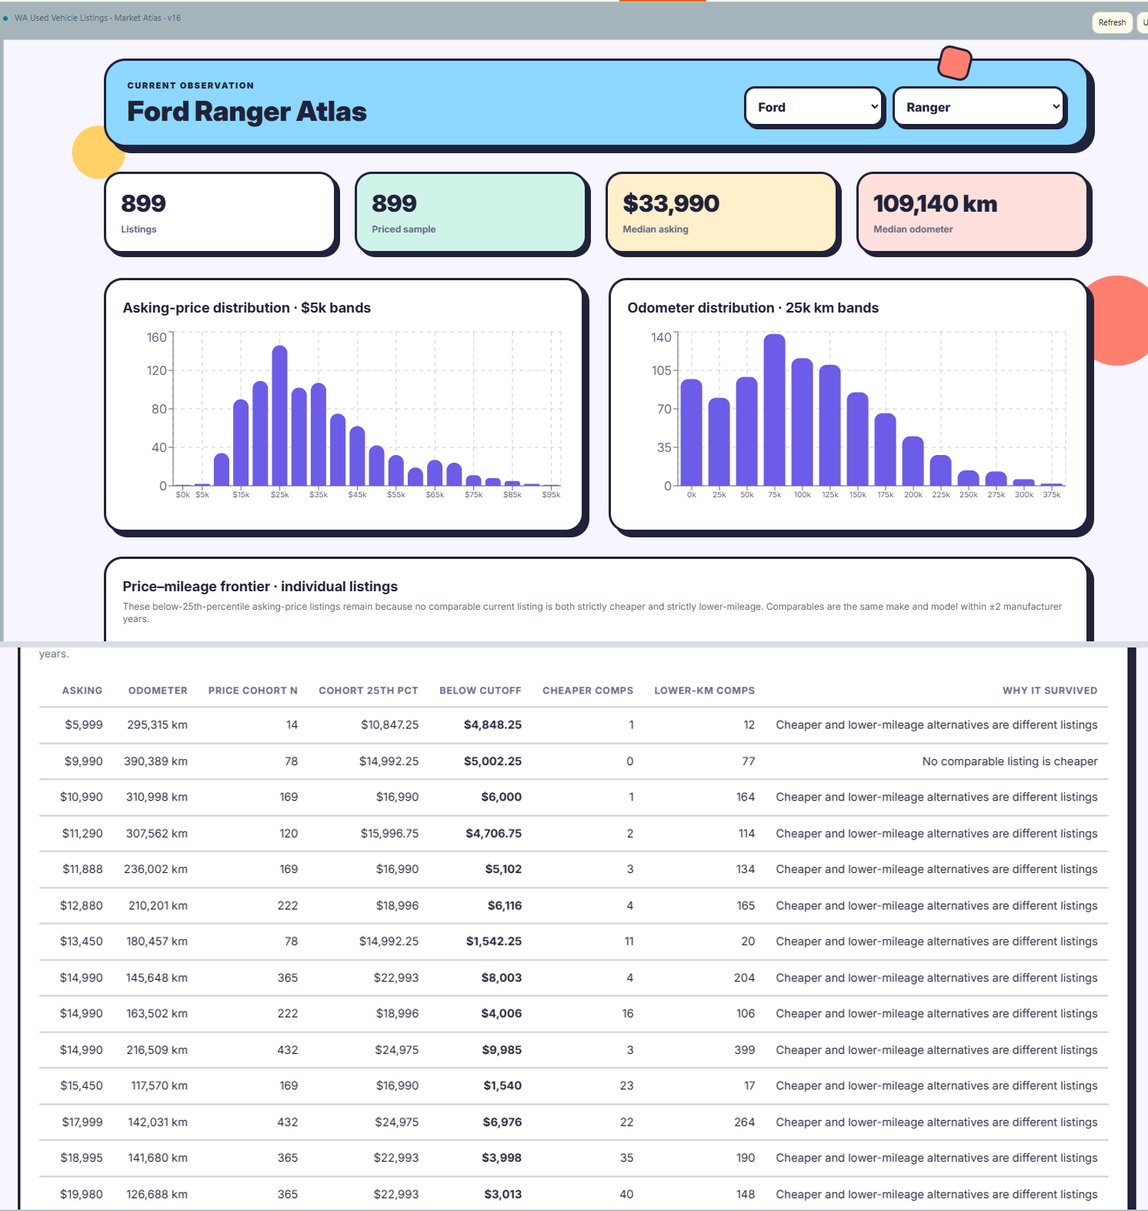
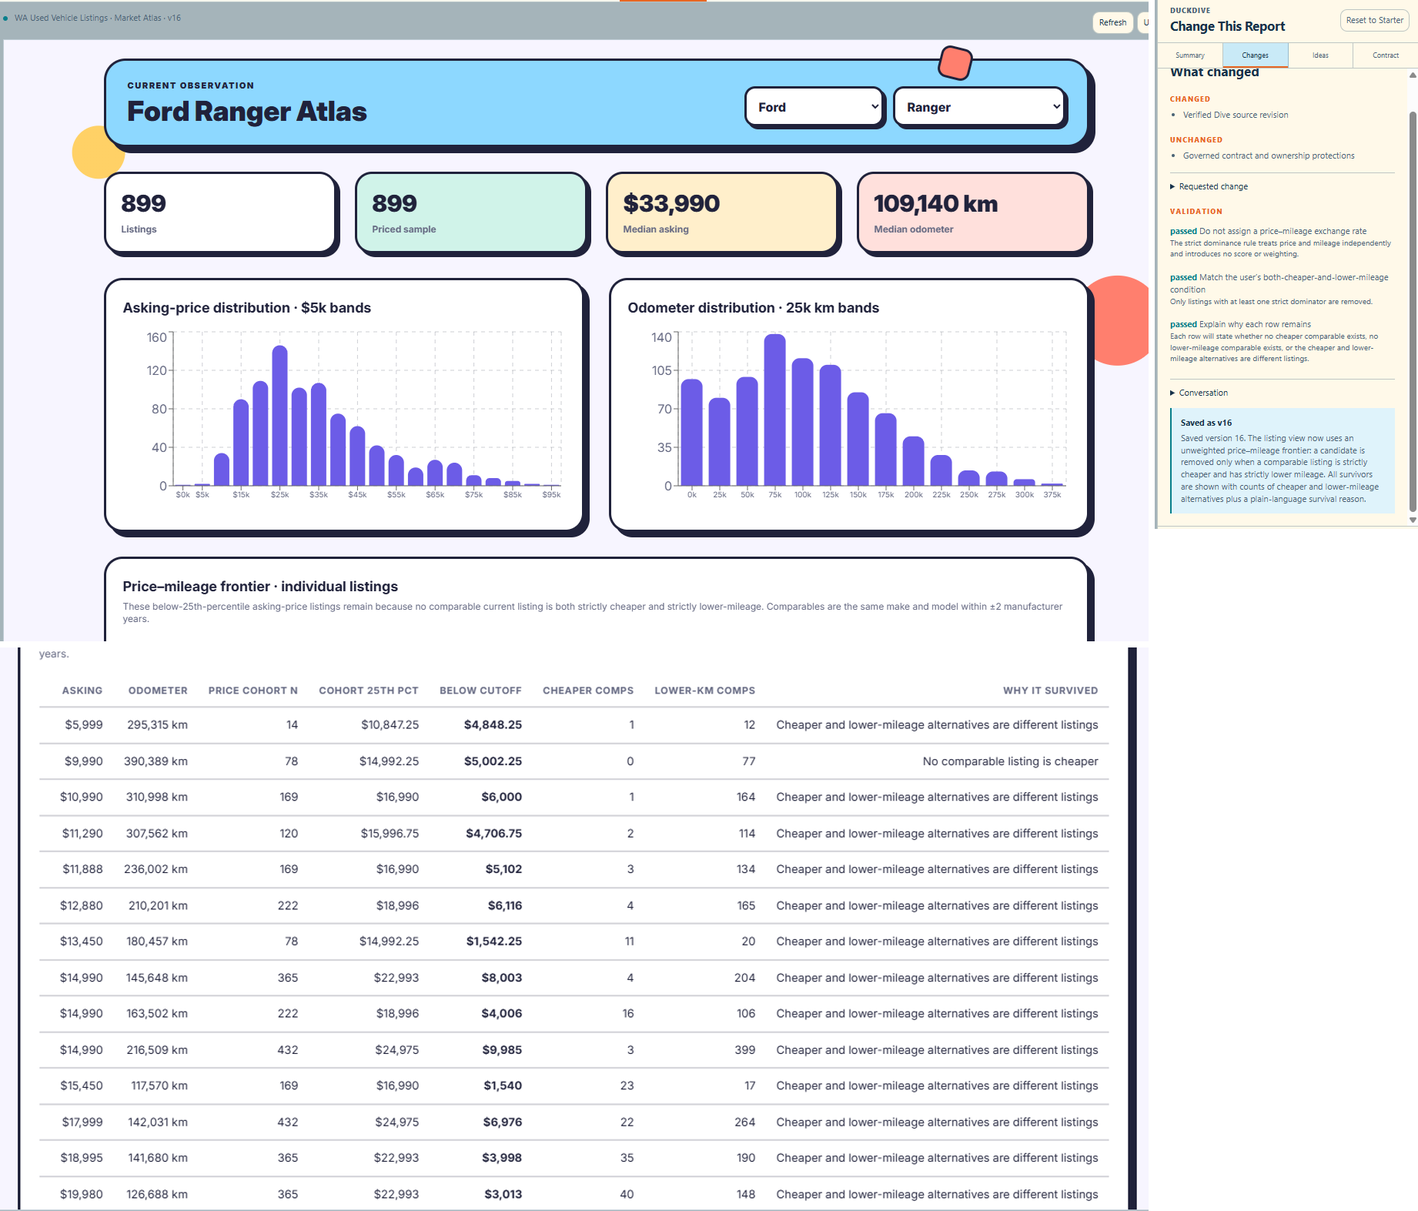
Publish Price Frontier case study

Changed region(s): [[0.0, 0.0, 1.0, 1.0], [0.0308, 0.0, 0.37, 0.2181]]

diff --git a/docs/case-studies/price-mileage-frontier.md b/docs/case-studies/price-mileage-frontier.md
@@ -1,0 +1,186 @@
+---
+meta:
+  contentType: Conceptual
+---
+
+# Trace a Ranger question to a market-wide frontier
+
+This case study explains how a conversation changed an ordinary vehicle report into a reusable price-mileage frontier. The result preserves price and odometer as separate measures, evaluates each listing within a governed peer group, and stops short of valuation or purchase advice.
+
+## Read the evidence boundary first
+
+This page describes a historical session observed on 11 August 2026. It does not describe current application, MotherDuck, or Embedded Dives state.
+
+| Evidence class | What this page uses |
+| --- | --- |
+| Observed artifacts | A supplied conversation transcript and review-safe derivatives of screenshots captured on 11 August 2026 |
+| Editorial composites | Assets 04, 05, 07, 08, and 09 combine observed screenshot fragments and identify themselves as composites |
+| Reference reconstruction | [Work package 5 specifies an offline reconstruction](../../REPOSITORY_REVIEW_PLAN.md#work-package-5-add-an-executable-reference-reconstruction); no analytical result has been reconstructed in this phase |
+| Unavailable evidence | The original version 16 Dive source, its complete prompt history, its generated query or report source, and live MotherDuck access |
+
+Every displayed market value on this page belongs to the 11 August observation. Version numbers and cohort parameters describe the observed report logic. No value from a later observation appears here.
+
+The [visual-evidence gallery](../assets/price-frontier/README.md), [asset manifest](../assets/price-frontier/manifest.json), and [Work package 3 evidence record](../review/WORK_PACKAGE_3_EVIDENCE.md) document the source hashes, redactions, crops, and composite boundaries.
+
+## Follow the analytical evolution
+
+The conversation progressively expressed a decision problem. Each accepted version changed the report while retaining its evidence limits.
+
+### 1. Start with a conventional report
+
+The initial report plots advertised asking price against source-reported odometer. It supports exploration, but it leaves the reader to interpret a heterogeneous market without a governed candidate rule.
+
+![Conventional used-vehicle scatterplot with make and model selectors and advertised asking price plotted against odometer](../assets/price-frontier/01-conventional-scatterplot.png)
+
+Observed screenshot from 11 August 2026. Asking price remains an advertised amount, not a transaction price or estimated value.
+
+### 2. Prove that conversation can change presentation
+
+The Corporate Memphis request is the low-cost proof of report mutation. Version 8 changes cards, charts, typography, controls, and decorative geometry while retaining the report’s measures and analytical scope.
+
+![Version 8 Market Atlas with Corporate Memphis cards, charts, decorative shapes, and the report summary panel](../assets/price-frontier/02-corporate-memphis-restyle.png)
+
+Observed screenshot from 11 August 2026. The presentation changes, but the current-market analysis remains intact.
+
+### 3. Scope the report without hard-coding the question
+
+The next request makes the report useful for a Ford Ranger investigation. Version 12 defaults to Ford and Ranger, exposes make and model as independent selectors, and applies both controls to key measures and distributions.
+
+![Version 12 Ford Ranger Atlas with independent Ford make and Ranger model selectors, cohort counts, and price and odometer distributions](../assets/price-frontier/03-parameterized-ford-ranger.png)
+
+The visible version 12 panel records three validations:
+
+- Governed measure definitions remain unchanged
+- The report avoids valuation and market-total claims
+- The existing source and contract support make-and-model filtering
+
+The saved change also removes the redundant make chart. The report solves the immediate Ranger problem through parameters rather than a fixed Ford/Ranger query.
+
+### 4. Add a cohort-relative candidate rule
+
+The next question asks which asking prices are unusual within legitimate peer groups. Version 13 flags listings below their cohort’s 25th-percentile asking price.
+
+![Redacted version 13 low-asking-price table beside the saved change panel that confirms same-model year-window cohorts and a minimum cohort size](../assets/price-frontier/04-cohort-relative-price-filter.png)
+
+The visible version 13 panel defines a cohort as the same make and model within plus or minus two manufacturer years. It withholds the rule unless the cohort contains at least 10 current priced listings. The panel preserves the boundary between a relative asking-price signal and a valuation claim.
+
+The panel also records a warning that listing display fields need bounded read-only confirmation. Its saved state then identifies the fields included in the table.
+
+### 5. Add mileage context without estimating value
+
+The candidate list exposes a practical weakness: a low asking price can accompany high mileage. Version 14 adds odometer cohort size, cohort median odometer, and each listing’s distance from that median.
+
+![Redacted version 14 table that adds odometer cohort size, median odometer, and distance from the median beside its validation panel](../assets/price-frontier/05-mileage-aware-investigation.png)
+
+The visible version 14 panel records three safeguards:
+
+- It does not invent a valuation model
+- It preserves the governed price cohort
+- It requires at least 10 valid odometer readings for the odometer comparison
+
+The report can filter to listings at or below their cohort median odometer. It does not adjust price or estimate the monetary effect of mileage.
+
+### 6. Reduce the review set without recommending a purchase
+
+The next request asks for fewer listings to investigate. Version 15 defaults to five rows and lets the reader expand the set.
+
+![Redacted version 15 five-row first-pass shortlist with review-order controls, explicit limitations, and the saved change panel](../assets/price-frontier/06-first-pass-shortlist.png)
+
+The visible version 15 panel orders the review set by price gap below the cohort threshold, then lower odometer relative to the cohort median, then lower asking price. Its validation text calls the result data-only triage and rejects purchase-recommendation language.
+
+### 7. Replace ranking with strict two-dimensional dominance
+
+The final analytical request removes any implied conversion between dollars and kilometres:
+
+> Price and mileage both matter, but do not decide how much one is worth relative to the other. Remove a listing only when another comparable listing is both cheaper and lower-mileage.
+
+Version 16 implements a strict price-mileage frontier. It removes a candidate only when one comparable peer improves strictly on both observed measures.
+
+![Version 16 Ford Ranger Atlas with its validation panel above frontier rows showing local cohort measures, comparable counts, and plain-language survival reasons](../assets/price-frontier/07-price-mileage-frontier.png)
+
+The visible version 16 panel records three validations:
+
+- No price-mileage exchange rate, score, or weighting is introduced
+- Removal requires the same peer to be both strictly cheaper and strictly lower-mileage
+- Every survivor receives comparable counts and a plain-language survival reason
+
+The original version 16 Dive source is not preserved in this repository. The image is a labelled composite of observed screenshots, not a reconstructed report execution.
+
+### 8. Change controls to test generalization
+
+The make and model controls reveal that version 16 is not limited to Ford Ranger. The observed states include Hyundai Getz, Land Rover/All, All/All, and Land Rover Range Rover Evoque.
+
+![Four-state grid showing Hyundai Getz, Land Rover all models, all makes and models, and Land Rover Range Rover Evoque with different counts and distributions](../assets/price-frontier/08-generalization-grid.png)
+
+Each control state changes the title, population counts, measures, and distributions. The visible frontier description continues to define comparables at the same-make-and-model year-window grain.
+
+### 9. Expand the display to All/All
+
+The All/All state expands the display without turning unlike vehicles into peers. The observed 11 August frame shows 14,747 listings, a $28,988 median asking price, and an 88,138 km median odometer.
+
+The market-wide table is therefore interpreted as a union of local frontiers. A row survives within its own governed peer group before the report includes it in the broader display. A low-priced small car and a high-priced specialist vehicle can appear together without direct dominance comparison.
+
+### 10. Reveal the contract and refusal boundaries
+
+The final reveal is the contract rather than another visualization. It defines asking price, odometer, cohort position, grains, validation caveats, and unsupported interpretations.
+
+![Three contract panels defining asking price, odometer, cohort position, validation caveats, strict frontier rules, and prohibited valuation and sales claims](../assets/price-frontier/09-contract-and-refusal-boundaries.png)
+
+The observed contract states that advertised asking price is not a transaction price. It also states that source absence does not prove sale and that the frontier does not estimate vehicle value or suitability.
+
+## Keep three analytical scopes separate
+
+The frontier remains coherent because display, candidate, and dominance scopes answer different questions:
+
+| Scope | Question | Rule |
+| --- | --- | --- |
+| Display scope | Which results should the report show? | Selected make/model, make/All, or All/All |
+| Candidate rule | Which listings may enter the frontier test? | Asking price below the listing’s own cohort 25th percentile, with at least 10 current priced listings |
+| Dominance scope | Which peers may remove a candidate? | Same make and model within plus or minus two manufacturer years |
+
+Changing display scope does not broaden comparison scope. Land Rover/All can show results from several Land Rover models while each row remains evaluated against its own model and year window.
+
+## Apply strict dominance without a score
+
+A comparable peer removes a candidate only when both inequalities hold:
+
+```sql
+peer.asking_price < candidate.asking_price
+AND peer.odometer < candidate.odometer
+```
+
+The inequalities are strict. Equal asking price is not cheaper, and equal odometer is not lower-mileage, so equality on either measure cannot dominate a candidate.
+
+A surviving row has one of three explanations:
+
+- No comparable peer is cheaper
+- No comparable peer has lower mileage
+- Cheaper peers and lower-mileage peers exist, but they are different listings
+
+The third case matters because separate peers cannot be combined into an imaginary dominating vehicle. One actual comparable listing must improve on both measures.
+
+## Normalize through comparability semantics
+
+The All/All report spans a heterogeneous market, but it does not transform raw measures into a universal score. Local cohort rules perform the normalization through comparability semantics.
+
+The candidate rule asks whether an asking price is unusual within a governed local cohort. The dominance rule then compares price and odometer only among legitimate peers. The report unions the local survivors after those tests, so dollars remain dollars and kilometres remain kilometres.
+
+This method introduces no exchange rate between price and mileage. It also introduces no predicted value, trained model, or global ranking across unlike vehicles.
+
+## Reject claims that exceed the evidence
+
+The observed contract identifies nearby requests that the report cannot support:
+
+| Unsupported request | Why the evidence is insufficient | Supported alternative |
+| --- | --- | --- |
+| Estimate fair value | Advertised asking prices are not transactions, and the report has no valuation model | Compare observed asking prices within governed cohorts |
+| Tell the reader which vehicle to buy | The source does not establish condition, suitability, finance, accident history, or mechanical quality | Present transparent candidates and survival reasons for human investigation |
+| Identify vehicles that sold | A missing source listing does not establish a sale or transaction outcome | Describe a listing as no longer observed when the evidence supports that state |
+
+These are observed contract boundaries, not proof that semantic classification is deterministic. The agent still interprets requests through a model-mediated step. [Work package 6](../../REPOSITORY_REVIEW_PLAN.md#work-package-6-document-and-harden-the-bounded-agent-claim) will test the enforcement path separately.
+
+## State what the case study establishes
+
+The observed session shows a report evolving from presentation changes into governed analytical decision support. A concrete Ranger question produced a parameterized procedure that remained coherent across broader display states.
+
+The case study does not reproduce the original version 16 source or verify a live deployment. Work package 5 will add a credential-free reference reconstruction so reviewers can test the documented frontier semantics against synthetic cases.

diff --git a/docs/review/WORK_PACKAGE_4_EVIDENCE.md b/docs/review/WORK_PACKAGE_4_EVIDENCE.md
@@ -1,0 +1,64 @@
+# Work package 4 case-study record
+
+This record closes Work package 4 on 19 August 2026. The Price Frontier investigation is now the repository’s primary conceptual case study and remains independent of live MotherDuck access.
+
+## Published case study
+
+[`Trace a Ranger question to a market-wide frontier`](../case-studies/price-mileage-frontier.md) follows the required sequence:
+
+1. Conventional price-and-odometer report
+2. Corporate Memphis presentation change
+3. Version 12 make-and-model parameters
+4. Version 13 cohort-relative candidate rule
+5. Version 14 odometer context without value estimation
+6. Version 15 bounded first-pass triage
+7. Version 16 strict price-mileage frontier
+8. Control changes across vehicle populations
+9. All/All as a market-wide union of local frontiers
+10. Contract definitions, caveats, and refusal boundaries
+
+The root README links the case study as the primary reviewer artifact.
+
+## Evidence correction
+
+The Phase 4 audit found that asset 07 did not include the observed version 16 change panel. The corrected derivative now combines three observed frames: the report, the validation panel, and row details whose crop starts at asking price.
+
+The revised panel exposes the saved version and three checks: no price-mileage exchange rate, strict both-cheaper-and-lower-mileage removal, and a reason for every survivor. The asset manifest records the additional source hash and updated derivative hash. The published set remains nine files, and all derivatives remain free of ancillary Portable Network Graphics metadata.
+
+## Numerical and semantic audit
+
+The case study labels every screenshot as an 11 August 2026 artifact. Its only explicit market-wide values are the observed All/All count, median asking price, and median odometer from that date. It omits the later-observation listing count.
+
+The case study distinguishes:
+
+- Display scope: selected make/model, make/All, or All/All
+- Candidate rule: below the listing’s own cohort 25th-percentile asking price, with at least 10 current priced listings
+- Dominance scope: same make and model within plus or minus two manufacturer years
+
+It uses strict inequalities for both asking price and odometer. Equal price or equal odometer cannot dominate. A survivor has no cheaper peer, no lower-mileage peer, or separate cheaper and lower-mileage peers.
+
+The case study introduces no score, exchange rate, predicted value, transaction claim, or purchase advice. It identifies fair-value estimation, purchase selection, and sale inference as unsupported requests.
+
+## Artifact boundaries
+
+The case study states four evidence classes:
+
+- Observed screenshots and conversation transcript
+- Editorial composites of observed screenshot fragments
+- A reference reconstruction specified for Work package 5 but not yet implemented
+- Unavailable original version 16 source, complete prompt history, generated query or report source, and live MotherDuck access
+
+No analytical result is presented as reconstructed in this phase.
+
+## Validation results
+
+| Check | Result | Evidence |
+| --- | --- | --- |
+| `corepack pnpm review:assets` | Pass | Nine derivatives, 51 unique source hashes, and no PNG metadata |
+| `corepack pnpm review:case-study` | Pass | Nine images, dated claims, required scope semantics, and local links |
+| Focused ESLint | Pass | Both review scripts report no findings |
+| Node.js syntax checks | Pass | Both review scripts parse successfully |
+| Writing review | Pass | Sentence-case headings, tagged code, no banned filler, and no punctuation anti-patterns |
+| `git diff --check` | Pass | No whitespace errors |
+
+No source acquisition, deployment, credential access, cloud mutation, or external-state verification occurred.

diff --git a/NEXT_SESSION_HANDOFF.md b/NEXT_SESSION_HANDOFF.md
@@ -14,6 +14,8 @@ Work package 2 is complete. It removes reproducible generic skills from Git trac
 
 Work package 3 is complete. Nine review-safe Price Frontier derivatives now preserve the observed progression, version panels, four-state generalization test, and contract boundaries. A content-free manifest records every source and derivative hash. The original 52-file source set remains outside Git. See [`docs/review/WORK_PACKAGE_3_EVIDENCE.md`](docs/review/WORK_PACKAGE_3_EVIDENCE.md).
 
+Work package 4 is complete. The primary conceptual case study now traces the observed report from a conventional scatterplot through versions 12 to 16, generalization, All/All scope, strict dominance, and the final contract boundaries. It separates observed artifacts, editorial composites, the planned reference reconstruction, and unavailable source evidence. See [`docs/case-studies/price-mileage-frontier.md`](docs/case-studies/price-mileage-frontier.md) and [`docs/review/WORK_PACKAGE_4_EVIDENCE.md`](docs/review/WORK_PACKAGE_4_EVIDENCE.md).
+
 ## Review objective
 
 Present DuckDive as an engineering case study in bounded agentic business intelligence. The central evidence is no longer a generic vehicle dashboard. A short conversation evolved a Ford Ranger question into a reusable price-mileage frontier that generalised across make, model, make-wide, and All/All display states while retaining local cohort semantics.
@@ -83,4 +85,4 @@ The previous 17 August handoff remains historical evidence in Git history. Its l
 
 Execute [`REPOSITORY_REVIEW_PLAN.md`](REPOSITORY_REVIEW_PLAN.md) in order. Each work package has an exit gate. Do not begin a dependent package or call a package complete until its gate passes and its evidence is recorded.
 
-Work package 4 is now authorized. Publish the conceptual Price Frontier case study from the observed visual evidence without presenting a composite as a single screenshot or inventing the missing version 16 source. Preserve unrelated user changes, use forward commits, and do not rewrite public history.
+Work package 5 is now authorized. Add the credential-free reference reconstruction and verify its SQL and TypeScript behavior against synthetic cases. Preserve unrelated user changes, use forward commits, and do not rewrite public history.

diff --git a/README.md b/README.md
@@ -4,6 +4,10 @@ DuckDive is an engineering case study in bounded agentic business intelligence. 
 
 The current preserved experiment documents two WA vehicle-listing observations. Its reviewer workflow uses sanitized fixtures, keeps live acquisition disabled, and requires no credentials or external services.
 
+## Read the primary case study
+
+[`Trace a Ranger question to a market-wide frontier`](docs/case-studies/price-mileage-frontier.md) follows the observed report from a conventional scatterplot through cohort-relative filtering, strict two-dimensional dominance, All/All generalization, and the final contract boundaries.
+
 ## Run the reviewer baseline
 
 Use Node.js 22 and pnpm 10.28.0. The baseline installs the frozen dependency graph, validates the application, and replays two sanitized fixture rows:
@@ -51,6 +55,7 @@ Use these documents according to the task:
 
 - [`REPOSITORY_REVIEW_PLAN.md`](REPOSITORY_REVIEW_PLAN.md): authoritative execution order and success gates
 - [`NEXT_SESSION_HANDOFF.md`](NEXT_SESSION_HANDOFF.md): concise current-session orientation
+- [`docs/case-studies/price-mileage-frontier.md`](docs/case-studies/price-mileage-frontier.md): primary observed Price Frontier case study
 - [`docs/REPOSITORY_MAP.md`](docs/REPOSITORY_MAP.md): directory purposes and experiment classifications
 - [`docs/PLATFORM_OPERATIONS.md`](docs/PLATFORM_OPERATIONS.md): credentialed and historical operator procedures outside the reviewer path
 - [`docs/WA_VEHICLE_MARKET_IMPLEMENTATION.md`](docs/WA_VEHICLE_MARKET_IMPLEMENTATION.md): WA implementation and fixture commands

diff --git a/REPOSITORY_REVIEW_PLAN.md b/REPOSITORY_REVIEW_PLAN.md
@@ -204,12 +204,12 @@ Create `docs/case-studies/price-mileage-frontier.md` as a conceptual case study 
 
 ### Gate 4: case-study integrity
 
-- [ ] Every numerical claim is tied to the 11 August observation or omitted
-- [ ] No later-observation value is presented as part of the version 16 artifact
-- [ ] The case study states what was observed, what was reconstructed, and what remains unavailable
-- [ ] The frontier is never described as a valuation, bargain score, or recommendation engine
-- [ ] A reviewer can explain display, candidate, and dominance scopes after one reading
-- [ ] All case-study links and images resolve
+- [x] Every numerical claim is tied to the 11 August observation or omitted
+- [x] No later-observation value is presented as part of the version 16 artifact
+- [x] The case study states what was observed, what was reconstructed, and what remains unavailable
+- [x] The frontier is never described as a valuation, bargain score, or recommendation engine
+- [x] A reviewer can explain display, candidate, and dominance scopes after one reading
+- [x] All case-study links and images resolve
 
 ## Work package 5: Add an executable reference reconstruction
 

diff --git a/docs/review/WORK_PACKAGE_3_EVIDENCE.md b/docs/review/WORK_PACKAGE_3_EVIDENCE.md
@@ -20,7 +20,7 @@ The gallery at [`docs/assets/price-frontier/README.md`](../assets/price-frontier
 | `04-cohort-relative-price-filter.png` | Composite of observed screenshots | v13 | Source listing ID column masked |
 | `05-mileage-aware-investigation.png` | Composite of observed screenshots | v14 | Source listing ID column masked |
 | `06-first-pass-shortlist.png` | Observed screenshot with redaction | v15 | Source listing ID column masked |
-| `07-price-mileage-frontier.png` | Composite of observed screenshots | v16 | Row crop starts at asking price and excludes identity columns |
+| `07-price-mileage-frontier.png` | Composite of observed screenshots | v16 | Validation panel retained; row crop starts at asking price and excludes identity columns |
 | `08-generalization-grid.png` | Composite of observed screenshots | Not visible | Every frame stops above its listing table |
 | `09-contract-and-refusal-boundaries.png` | Composite of observed screenshots | Not visible | Contract fragments contain no listing identities |
 

diff --git a/docs/assets/price-frontier/README.md b/docs/assets/price-frontier/README.md
@@ -42,9 +42,9 @@ Observed screenshot with redaction. Version 15 reduces the default review set to
 
 ## 7. Apply the strict price-mileage frontier
 
-![Version 16 Ford Ranger Atlas above frontier rows showing asking price, odometer, local cohort measures, comparable counts, and plain-language survival reasons](./07-price-mileage-frontier.png)
+![Version 16 Ford Ranger Atlas with its validation panel above frontier rows showing local cohort measures, comparable counts, and plain-language survival reasons](./07-price-mileage-frontier.png)
 
-Composite of observed screenshots. Version 16 applies strict two-dimensional dominance and explains why each surviving row remains without weighting price against mileage.
+Composite of observed screenshots. Version 16 records the strict dominance checks, rejects a price-mileage exchange rate, and explains why each surviving row remains.
 
 ## 8. Change controls to test generalization
 
